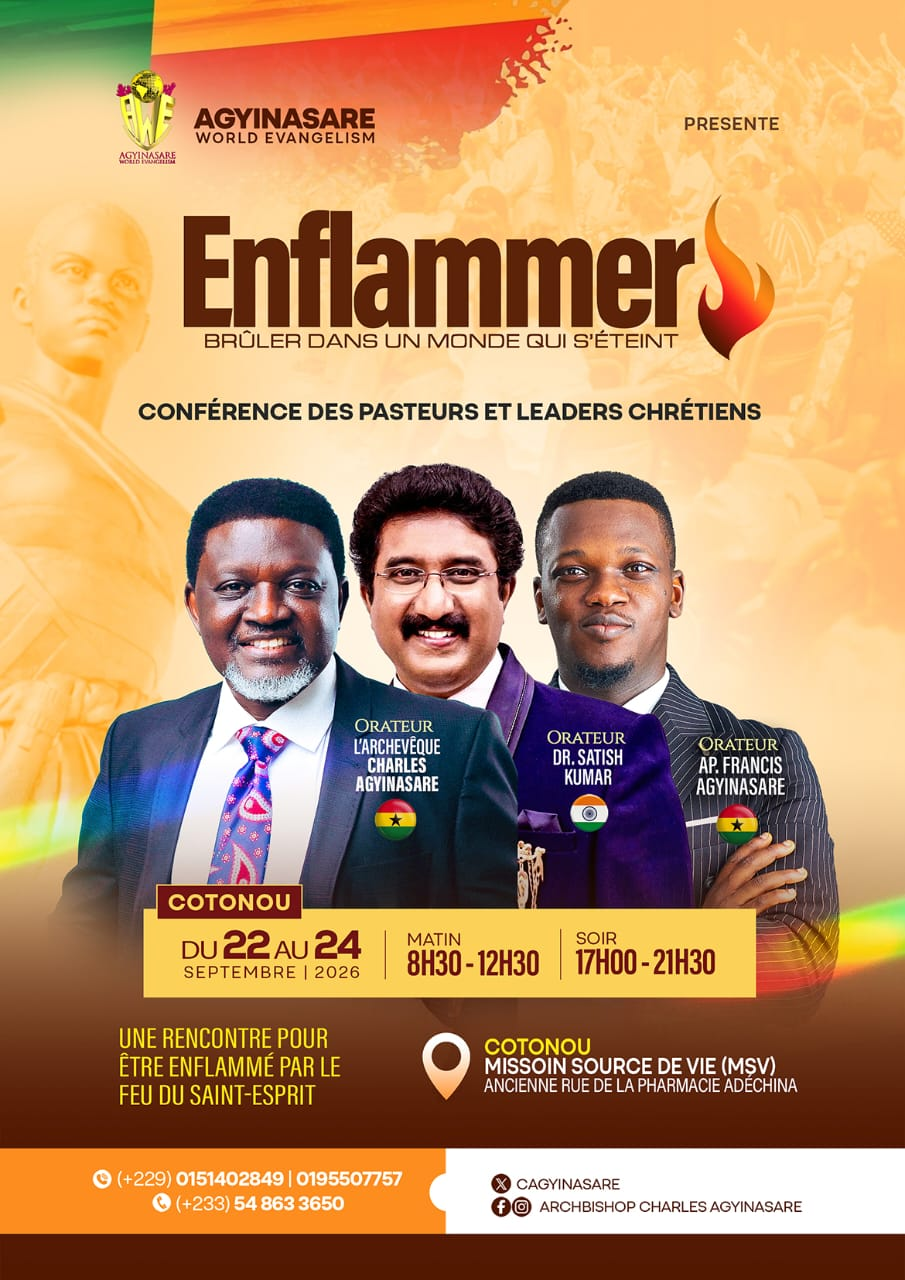
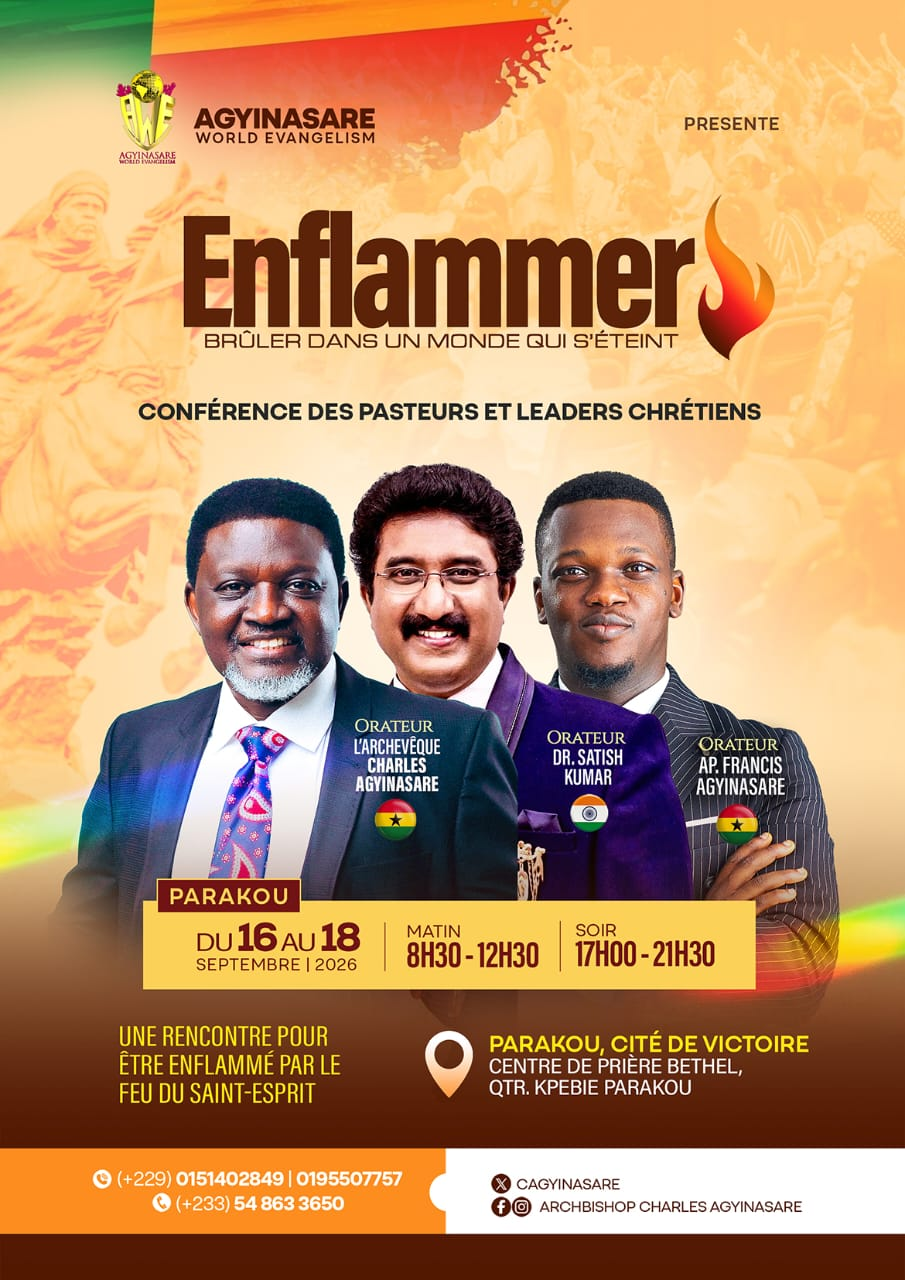
Add files via upload

Changed region(s): [[0.1238, 0.6875, 0.8972, 0.875], [0.0, 0.125, 0.3094, 0.6562]]

diff --git a/index.html b/index.html
@@ -1453,7 +1453,7 @@
 
                     <h1 class="hero-title">
                         <span class="highlight">ENFLAMMER</span>
-                        <span class="city-sub">Cotonou 2026</span>
+                        <span class="city-sub">Parakou 2026</span>
                     </h1>
 
                     <p class="hero-subtitle" id="typedText">
@@ -1468,12 +1468,12 @@
 
                     <div class="hero-stats">
                         <div class="stat">
-                            <span class="stat-number">22-24</span>
+                            <span class="stat-number">16-18</span>
                             <span class="stat-label">Septembre 2026</span>
                         </div>
                         <div class="stat">
-                            <span class="stat-number">MSV</span>
-                            <span class="stat-label">Lieu : Cotonou</span>
+                            <span class="stat-number">CV</span>
+                            <span class="stat-label">Lieu : Parakou</span>
                         </div>
                         <div class="stat">
                             <span class="stat-number">🔥</span>
@@ -1509,7 +1509,7 @@
                 <div class="info-card">
                     <span class="icon">📅</span>
                     <h4>Dates</h4>
-                    <p>22, 23, 24 Septembre 2026</p>
+                    <p>16, 17, 18 Septembre 2026</p>
                 </div>
 
                 <div class="info-card">
@@ -1521,7 +1521,8 @@
                 <div class="info-card">
                     <span class="icon">📍</span>
                     <h4>Lieu</h4>
-                    <p>Mission Source de Vie (MSV)<br />Ancienne rue Pharmacie Adéchina, Cotonou</p>
+                    <p>Parakou, Cité de Victoire<br />Centre de prière Bethel,
+                    QTR. KPEBIE PARAKOU</p>
                 </div>
 
                 <div class="info-card">
